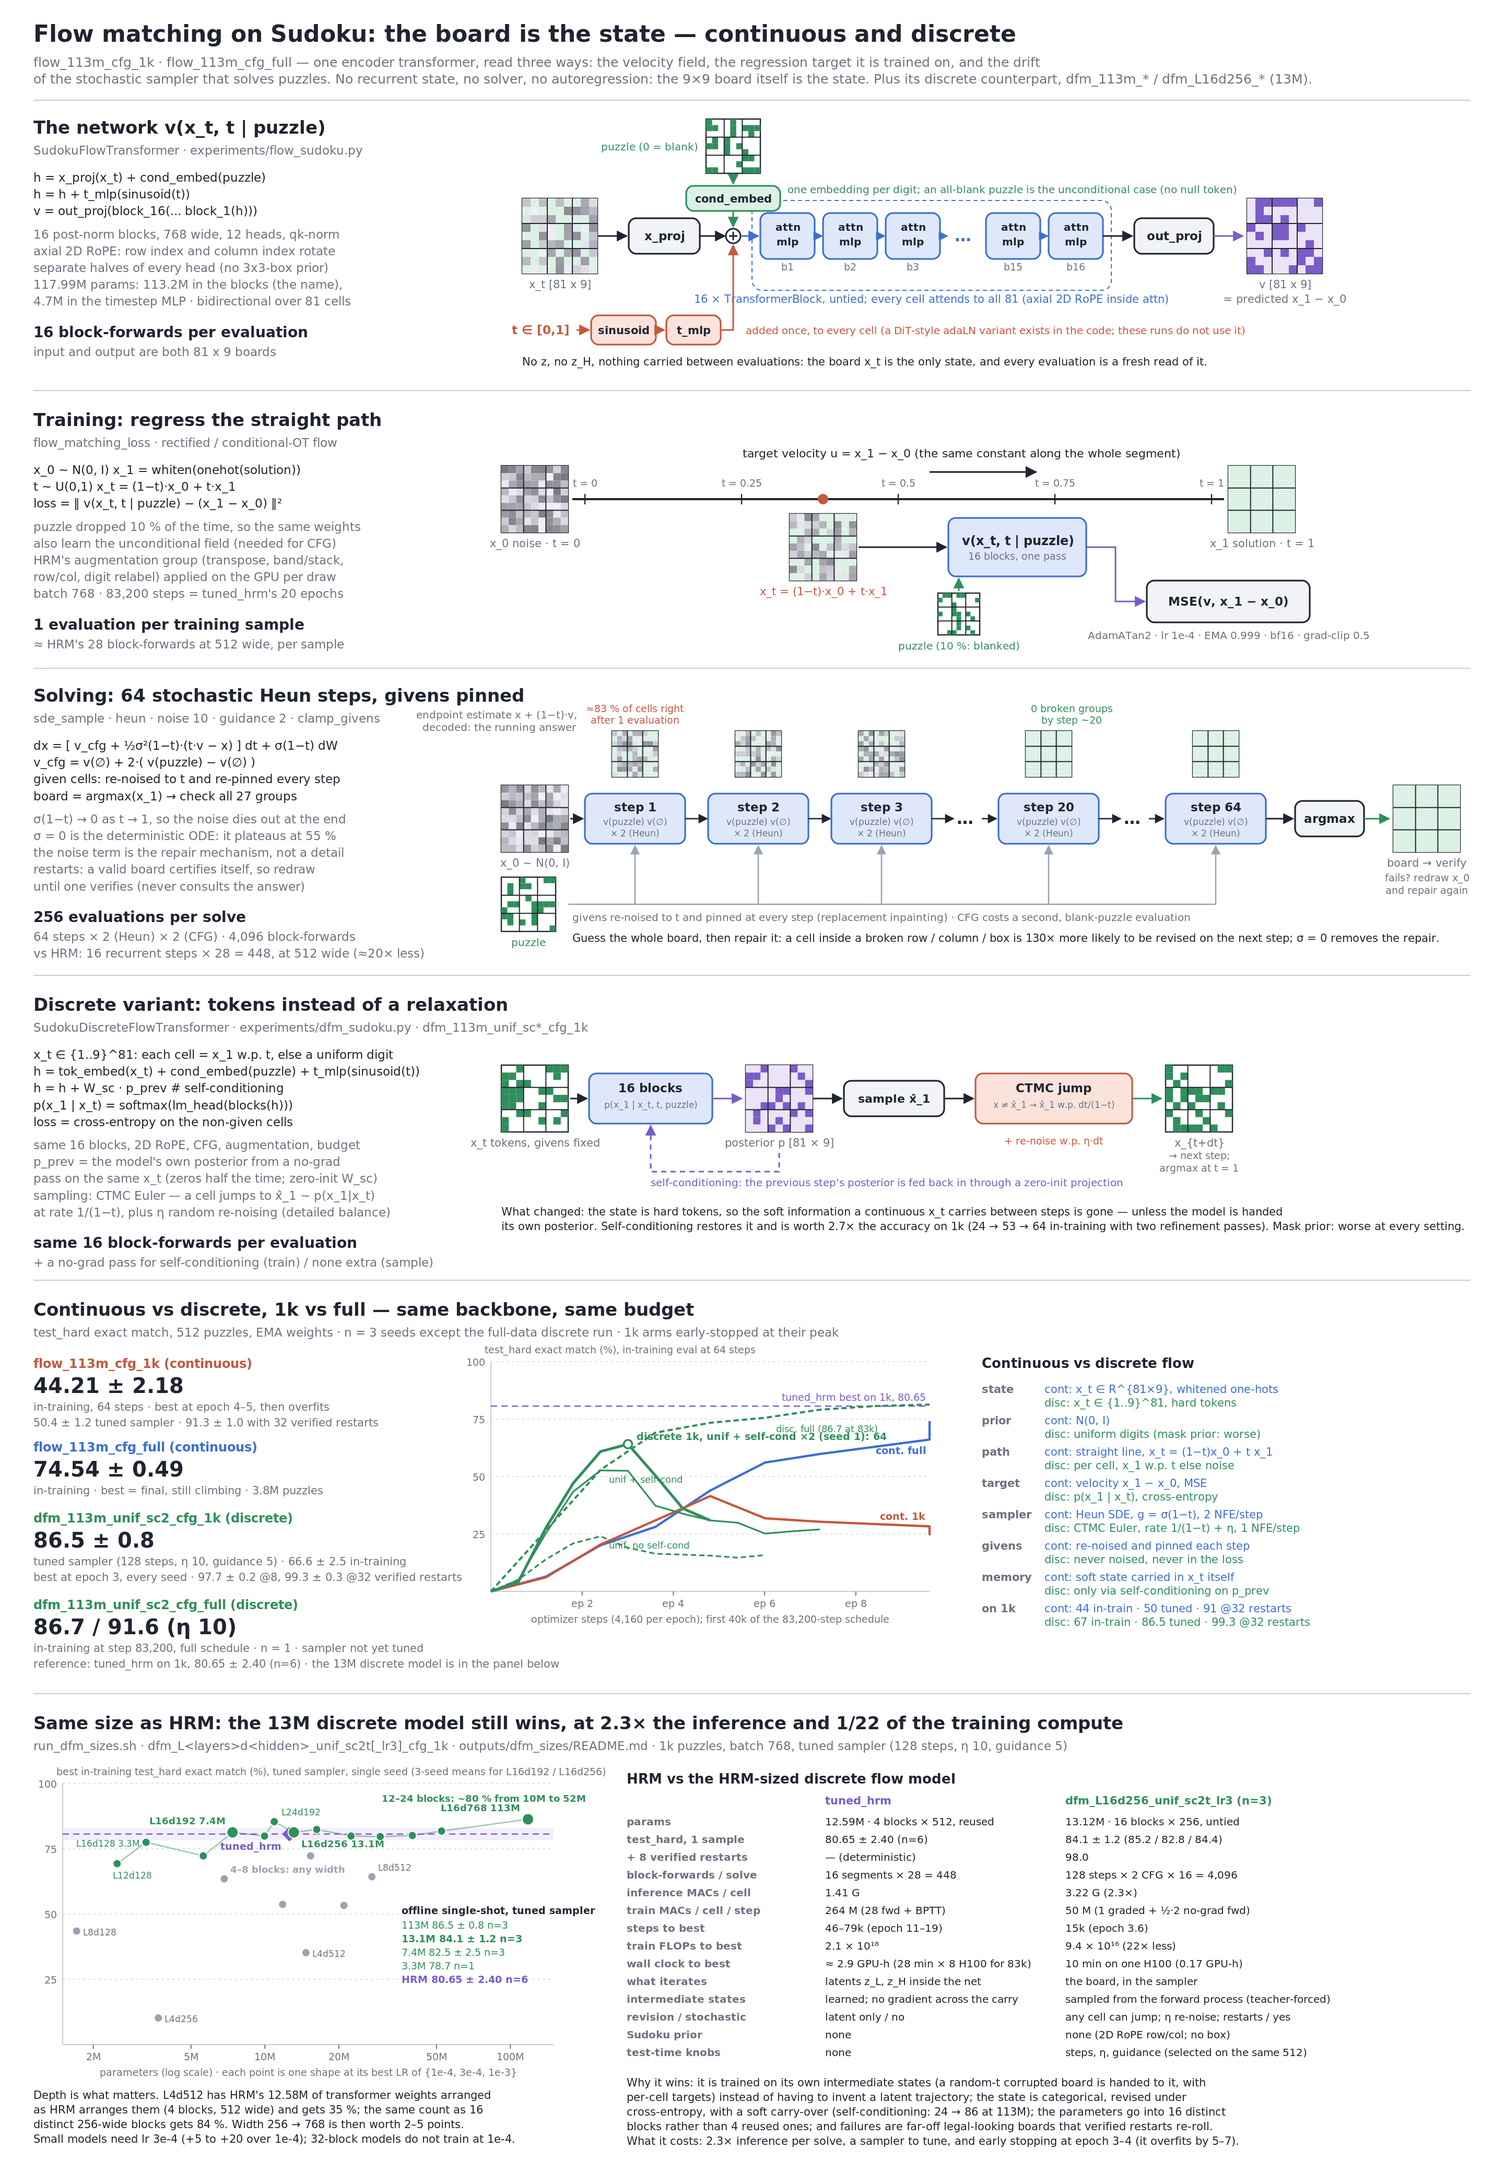
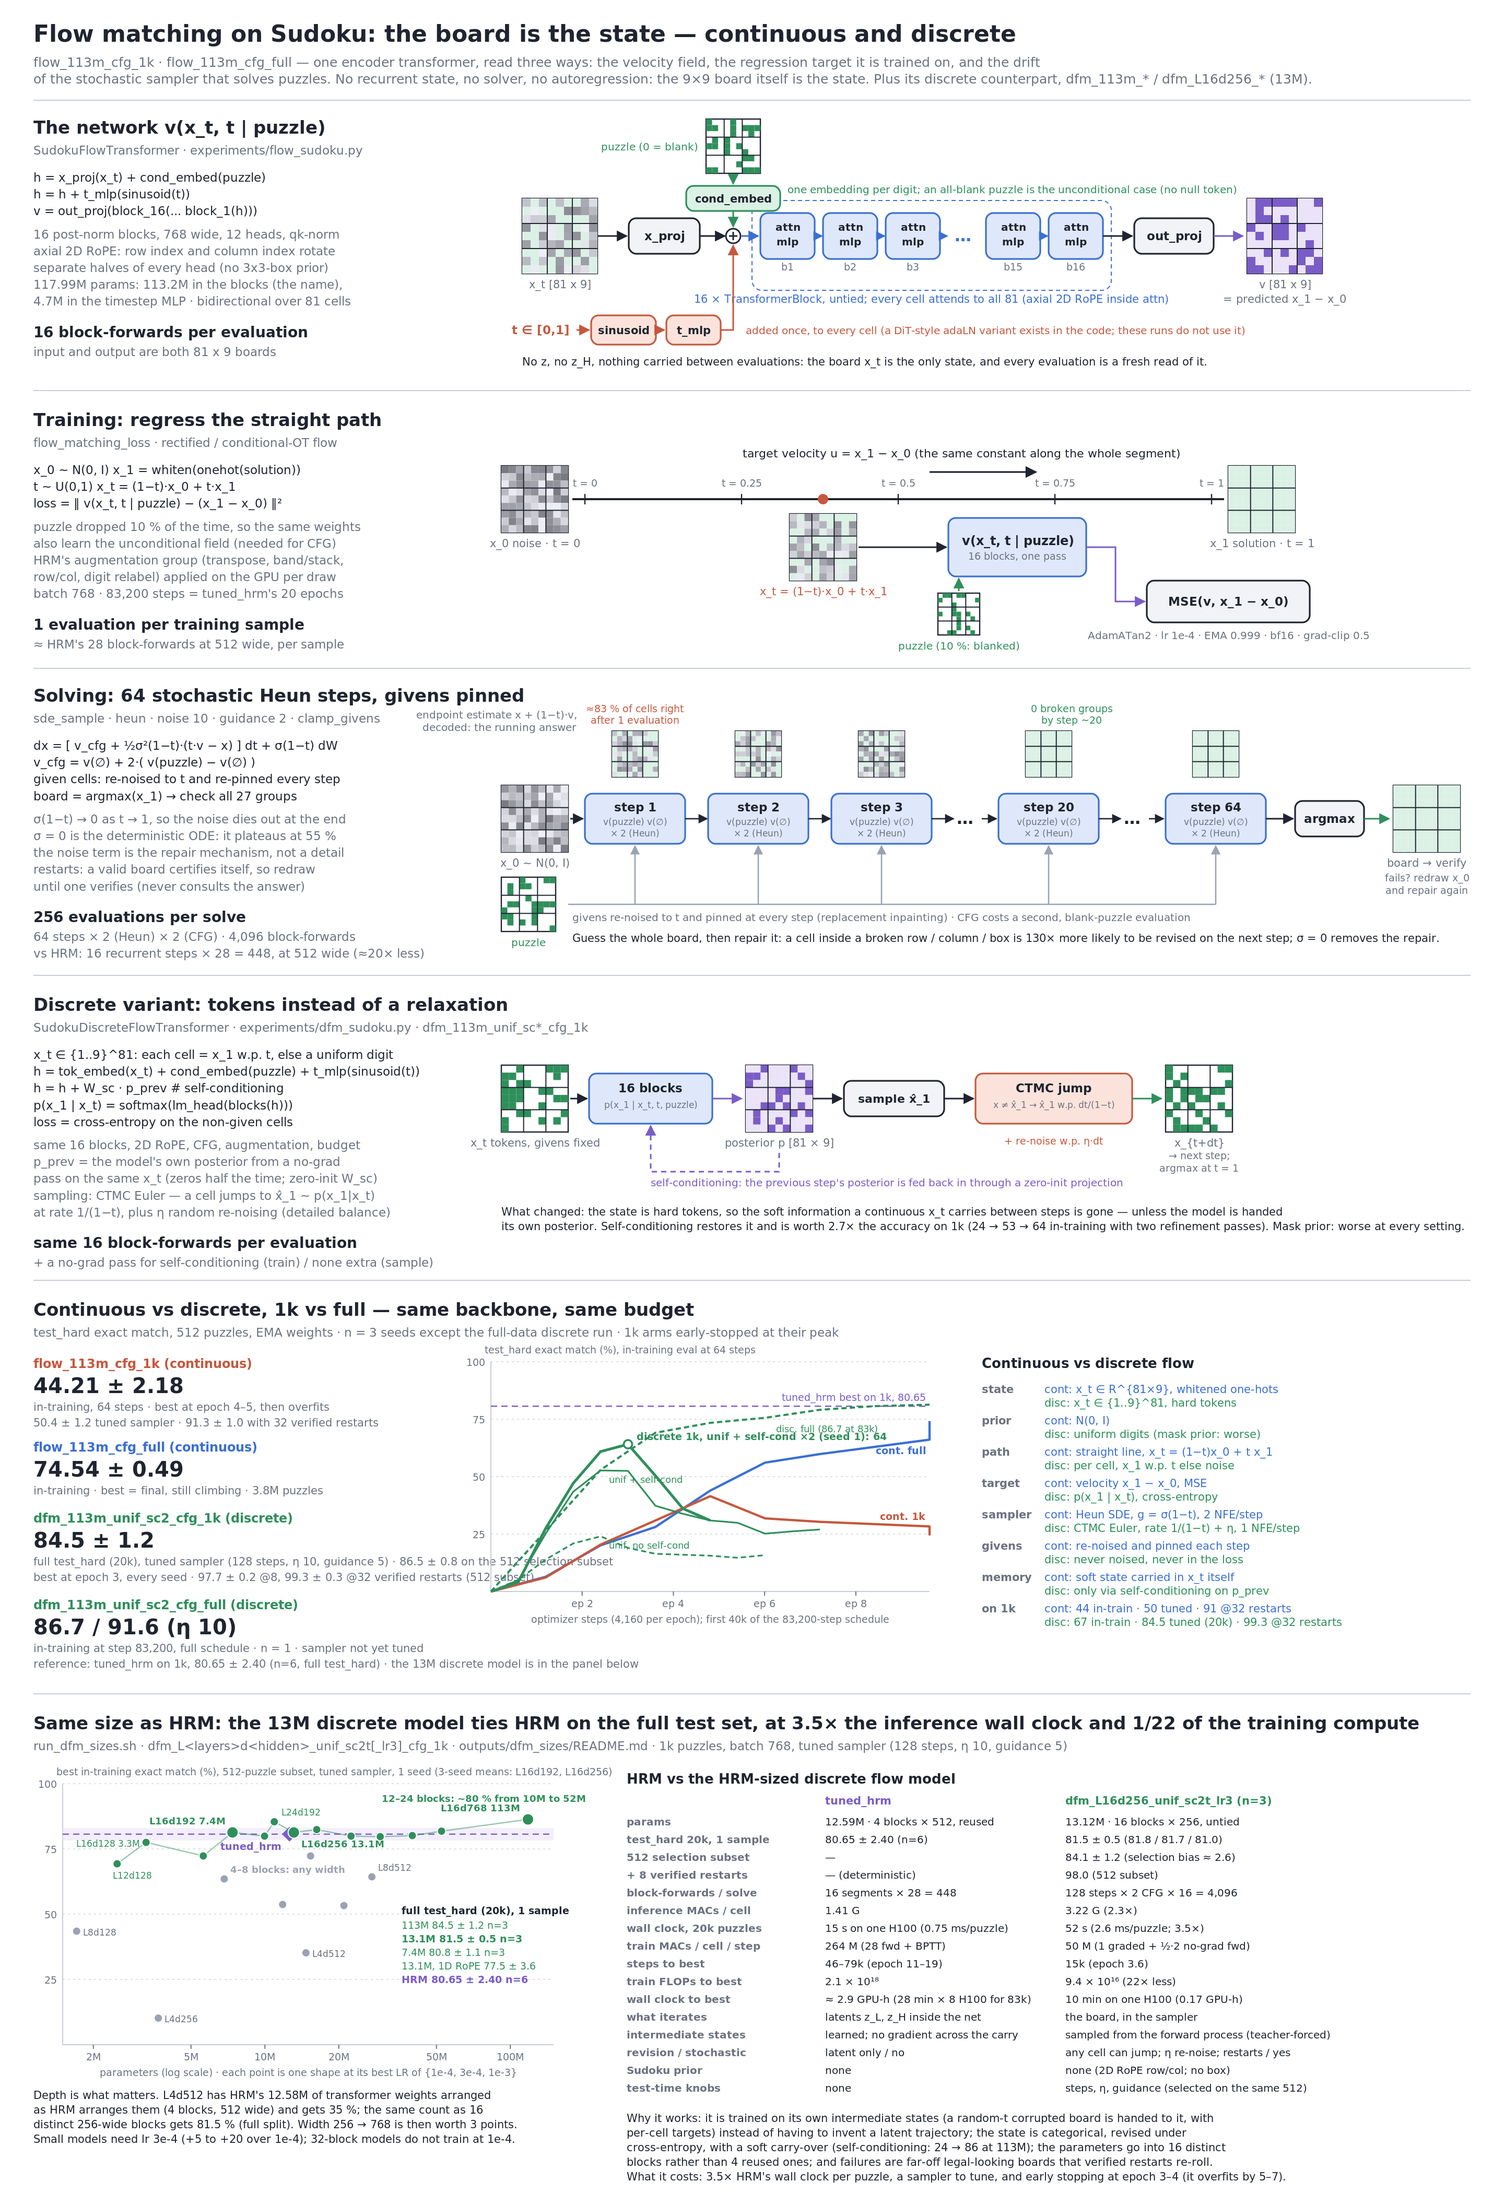
Score the discrete flow models on the full test_hard split and time inference against HRM
HRM's 80.65 +- 2.40 has always been on all 20,000 test_hard puzzles (train.py evaluates the whole
split); the DFM numbers were on the 512-puzzle subset that best.pt and the sampler cell were
selected on, which reads 2-2.6 points high. On the full split: 113M 84.5 +- 1.2, 13M 81.5 +- 0.5,
7.4M 80.8 +- 1.1, 13M with 1D RoPE 77.5 +- 3.6. So at HRM's size the DFM ties HRM rather than
beating it by 3.5; the 113M model beats it by 3.9. Every headline in FLOW_MATCHING_EXPLAINED.md,
outputs/dfm_sizes/README.md and the figure is moved to the full-split number.

Wall clock for the whole split on one H100 (compiled, steady state): HRM 15 s (0.75 ms/puzzle),
DFM 13M 52 s (2.6 ms, 3.5x; 175 s eager), DFM 113M 236 s (11.8 ms, 16x). eval.py gains
--batch-size and a timed loop; eval_dfm_sudoku.py gains --compile and per-cell timing.

diff --git a/experiments/make_flow_figure.py b/experiments/make_flow_figure.py
@@ -2,7 +2,7 @@
 import math
 import os
 
-W, H = 1440, 2080
+W, H = 1440, 2100
 SANS = "Inter, Helvetica Neue, Helvetica, Arial, sans-serif"
 MONO = "ui-monospace, SFMono-Regular, Menlo, Consolas, monospace"
 
@@ -378,14 +378,14 @@ text(bx_, yD + 154, "74.54 ± 0.49", 20, INK, weight="700")
 text(bx_, yD + 171, "in-training · best = final, still climbing · 3.8M puzzles", 10.5, MUTED)
 
 text(bx_, yD + 198, "dfm_113m_unif_sc2_cfg_1k  (discrete)", 12, GRN, weight="700", mono=True)
-text(bx_, yD + 222, "86.5 ± 0.8", 20, INK, weight="700")
-text(bx_, yD + 239, "tuned sampler (128 steps, η 10, guidance 5) · 66.6 ± 2.5 in-training", 10.5, MUTED)
-text(bx_, yD + 254, "best at epoch 3, every seed · 97.7 ± 0.2 @8, 99.3 ± 0.3 @32 verified restarts", 10.5, MUTED)
+text(bx_, yD + 222, "84.5 ± 1.2", 20, INK, weight="700")
+text(bx_, yD + 239, "full test_hard (20k), tuned sampler (128 steps, η 10, guidance 5) · 86.5 ± 0.8 on the 512 selection subset", 10.5, MUTED)
+text(bx_, yD + 254, "best at epoch 3, every seed · 97.7 ± 0.2 @8, 99.3 ± 0.3 @32 verified restarts (512 subset)", 10.5, MUTED)
 
 text(bx_, yD + 281, "dfm_113m_unif_sc2_cfg_full  (discrete)", 12, GRN, weight="700", mono=True)
 text(bx_, yD + 305, "86.7 / 91.6 (η 10)", 20, INK, weight="700")
 text(bx_, yD + 322, "in-training at step 83,200, full schedule · n = 1 · sampler not yet tuned", 10.5, MUTED)
-text(bx_, yD + 337, "reference: tuned_hrm on 1k, 80.65 ± 2.40 (n=6) · the 13M discrete model is in the panel below", 10.5, MUTED)
+text(bx_, yD + 337, "reference: tuned_hrm on 1k, 80.65 ± 2.40 (n=6, full test_hard) · the 13M discrete model is in the panel below", 10.5, MUTED)
 
 # mini chart of the curves
 chx, chy, chw, chh = 470, yD + 44, 420, 220
@@ -443,7 +443,7 @@ rows = [
     ("sampler",   "cont: Heun SDE, g = σ(1−t), 2 NFE/step",        "disc: CTMC Euler, rate 1/(1−t) + η, 1 NFE/step"),
     ("givens",    "cont: re-noised and pinned each step",          "disc: never noised, never in the loss"),
     ("memory",    "cont: soft state carried in x_t itself",        "disc: only via self-conditioning on p_prev"),
-    ("on 1k",     "cont: 44 in-train · 50 tuned · 91 @32 restarts", "disc: 67 in-train · 86.5 tuned · 99.3 @32 restarts"),
+    ("on 1k",     "cont: 44 in-train · 50 tuned · 91 @32 restarts", "disc: 67 in-train · 84.5 tuned (20k) · 99.3 @32 restarts"),
 ]
 ty = yD + 74
 for k, a, b in rows:
@@ -458,7 +458,7 @@ rule(yD + 362)
 # Panel F: size sweep and the HRM-sized comparison
 # =============================================================================================
 yF = yD + 396
-text(32, yF, "Same size as HRM: the 13M discrete model still wins, at 2.3× the inference and 1/22 of the training compute", 17, INK, weight="700")
+text(32, yF, "Same size as HRM: the 13M discrete model ties HRM on the full test set, at 3.5× the inference wall clock and 1/22 of the training compute", 17, INK, weight="700")
 text(32, yF + 20, "run_dfm_sizes.sh · dfm_L<layers>d<hidden>_unif_sc2t[_lr3]_cfg_1k · outputs/dfm_sizes/README.md · 1k puzzles, batch 768, tuned sampler (128 steps, η 10, guidance 5)", 11.5, MUTED, mono=True)
 
 # --- scatter: params vs best in-training exact match, coloured by depth --------------------------
@@ -486,7 +486,7 @@ for pm in (2, 5, 10, 20, 50, 100):
     add(f'<line x1="{PX(pm)}" y1="{sy0+sh_}" x2="{PX(pm)}" y2="{sy0+sh_+4}" stroke="{MUTED}" stroke-width="1"/>')
     text(PX(pm), sy0 + sh_ + 15, f"{pm}M", 9.5, MUTED, "middle")
 text(sx0 + sw_ / 2, sy0 + sh_ + 30, "parameters (log scale) · each point is one shape at its best LR of {1e-4, 3e-4, 1e-3}", 9.5, MUTED, "middle")
-text(sx0 - 6, sy0 - 8, "best in-training test_hard exact match (%), tuned sampler, single seed (3-seed means for L16d192 / L16d256)", 9.5, MUTED, "start")
+text(sx0 - 6, sy0 - 8, "best in-training exact match (%), 512-puzzle subset, tuned sampler, 1 seed (3-seed means: L16d192, L16d256)", 9.5, MUTED, "start")
 # HRM reference: a point at 12.59M / 80.65 with its ± band
 add(f'<rect x="{sx0}" y="{PY(83.05)}" width="{sw_}" height="{PY(78.25)-PY(83.05)}" fill="{PURP_F}" opacity="0.6"/>')
 add(f'<line x1="{sx0}" y1="{PY(80.65)}" x2="{sx0+sw_}" y2="{PY(80.65)}" stroke="{PURP}" stroke-width="1.2" stroke-dasharray="6,4"/>')
@@ -513,16 +513,16 @@ text(PX(13.12) + 7, PY(81.3) + 14, "L16d256 13.1M", 9, GRN, "start", "700")
 text(PX(30), PY(93), "12–24 blocks: ~80 % from 10M to 52M", 9, GRN, "start", "700")
 # offline 3-seed numbers, in the empty lower-right of the plot
 lx, ly_ = PX(36), PY(50)
-text(lx, ly_, "offline single-shot, tuned sampler", 9.5, INK, "start", "700")
-text(lx, ly_ + 14, "113M   86.5 ± 0.8  n=3", 9.5, GRN, "start", mono=True)
-text(lx, ly_ + 27, "13.1M  84.1 ± 1.2  n=3", 9.5, GRN, "start", "700", mono=True)
-text(lx, ly_ + 40, "7.4M   82.5 ± 2.5  n=3", 9.5, GRN, "start", mono=True)
-text(lx, ly_ + 53, "3.3M   78.7        n=1", 9.5, GRN, "start", mono=True)
+text(lx, ly_, "full test_hard (20k), 1 sample", 9.5, INK, "start", "700")
+text(lx, ly_ + 14, "113M   84.5 ± 1.2  n=3", 9.5, GRN, "start", mono=True)
+text(lx, ly_ + 27, "13.1M  81.5 ± 0.5  n=3", 9.5, GRN, "start", "700", mono=True)
+text(lx, ly_ + 40, "7.4M   80.8 ± 1.1  n=3", 9.5, GRN, "start", mono=True)
+text(lx, ly_ + 53, "13.1M, 1D RoPE 77.5 ± 3.6", 9.5, GRN, "start", mono=True)
 text(lx, ly_ + 66, "HRM    80.65 ± 2.40 n=6", 9.5, PURP, "start", "700", mono=True)
 cap = sy0 + sh_ + 52
 text(32, cap, "Depth is what matters. L4d512 has HRM's 12.58M of transformer weights arranged", 10.5, INK)
 text(32, cap + 14, "as HRM arranges them (4 blocks, 512 wide) and gets 35 %; the same count as 16", 10.5, INK)
-text(32, cap + 28, "distinct 256-wide blocks gets 84 %. Width 256 → 768 is then worth 2–5 points.", 10.5, INK)
+text(32, cap + 28, "distinct 256-wide blocks gets 81.5 % (full split). Width 256 → 768 is then worth 3 points.", 10.5, INK)
 text(32, cap + 42, "Small models need lr 3e-4 (+5 to +20 over 1e-4); 32-block models do not train at 1e-4.", 10.5, INK)
 
 # --- comparison table: HRM vs the 13M DFM -------------------------------------------------------
@@ -533,10 +533,12 @@ text(tx1 + 190, hdr_y, "tuned_hrm", 10.5, PURP, "start", "700", mono=True)
 text(tx1 + 420, hdr_y, "dfm_L16d256_unif_sc2t_lr3 (n=3)", 10.5, GRN, "start", "700", mono=True)
 rows = [
     ("params",                 "12.59M · 4 blocks × 512, reused",           "13.12M · 16 blocks × 256, untied"),
-    ("test_hard, 1 sample",    "80.65 ± 2.40  (n=6)",                       "84.1 ± 1.2  (85.2 / 82.8 / 84.4)"),
-    ("+ 8 verified restarts",  "— (deterministic)",                         "98.0"),
+    ("test_hard 20k, 1 sample","80.65 ± 2.40  (n=6)",                       "81.5 ± 0.5  (81.8 / 81.7 / 81.0)"),
+    ("512 selection subset",   "—",                                         "84.1 ± 1.2  (selection bias ≈ 2.6)"),
+    ("+ 8 verified restarts",  "— (deterministic)",                         "98.0  (512 subset)"),
     ("block-forwards / solve", "16 segments × 28 = 448",                    "128 steps × 2 CFG × 16 = 4,096"),
     ("inference MACs / cell",  "1.41 G",                                    "3.22 G  (2.3×)"),
+    ("wall clock, 20k puzzles","15 s on one H100  (0.75 ms/puzzle)",        "52 s  (2.6 ms/puzzle; 3.5×)"),
     ("train MACs / cell / step","264 M  (28 fwd + BPTT)",                   "50 M  (1 graded + ½·2 no-grad fwd)"),
     ("steps to best",          "46–79k  (epoch 11–19)",                     "15k  (epoch 3.6)"),
     ("train FLOPs to best",    "2.1 × 10¹⁸",                                "9.4 × 10¹⁶  (22× less)"),
@@ -553,11 +555,11 @@ for k, a, b in rows:
     text(tx1 + 190, ty, a, 10, INK)
     text(tx1 + 420, ty, b, 10, INK)
     ty += 17
-text(tx1, ty + 12, "Why it wins: it is trained on its own intermediate states (a random-t corrupted board is handed to it, with", 10.5, INK)
+text(tx1, ty + 12, "Why it works: it is trained on its own intermediate states (a random-t corrupted board is handed to it, with", 10.5, INK)
 text(tx1, ty + 26, "per-cell targets) instead of having to invent a latent trajectory; the state is categorical, revised under", 10.5, INK)
 text(tx1, ty + 40, "cross-entropy, with a soft carry-over (self-conditioning: 24 → 86 at 113M); the parameters go into 16 distinct", 10.5, INK)
 text(tx1, ty + 54, "blocks rather than 4 reused ones; and failures are far-off legal-looking boards that verified restarts re-roll.", 10.5, INK)
-text(tx1, ty + 68, "What it costs: 2.3× inference per solve, a sampler to tune, and early stopping at epoch 3–4 (it overfits by 5–7).", 10.5, INK)
+text(tx1, ty + 68, "What it costs: 3.5× HRM's wall clock per puzzle, a sampler to tune, and early stopping at epoch 3–4 (it overfits by 5–7).", 10.5, INK)
 
 add('</svg>')
 open(os.path.join(os.path.dirname(os.path.dirname(os.path.abspath(__file__))), "flow_matching_architecture.svg"), "w").write("\n".join(out))

diff --git a/experiments/eval_dfm_sudoku.py b/experiments/eval_dfm_sudoku.py
@@ -11,6 +11,7 @@ import itertools
 import json
 import os
 import sys
+import time
 
 import numpy as np
 import torch
@@ -41,6 +42,7 @@ def main():
                    help="Write the puzzle back into the state at every step (default: the run's --givens mode)")
     p.add_argument("--batch", type=int, default=512)
     p.add_argument("--seed", type=int, default=7)
+    p.add_argument("--compile", action="store_true", help="torch.compile the model (as train.py / eval.py do)")
     args = p.parse_args()
 
     device = torch.device("cuda")
@@ -54,6 +56,8 @@ def main():
         self_cond=cfg.get("self_cond", False))).to(device)
     model.load_state_dict(torch.load(args.ckpt, map_location=device))
     model.eval()
+    if args.compile:
+        model = torch.compile(model, dynamic=False, fullgraph=True)
     prior = cfg["prior"]
 
     q, a = load_pairs(args.dataset_dir, args.split)
@@ -76,14 +80,19 @@ def main():
                                     self_cond=cfg.get("self_cond", False)))
         return torch.cat(outs)
 
+    if args.compile:   # warm up so the wall clock below is steady-state
+        solve(args.sample_steps[0], args.noise_scale[0], args.guidance[0], args.temperature[0], args.seed)
     best = (-1.0, None)
     for steps, eta, guidance, temp in itertools.product(args.sample_steps, args.noise_scale, args.guidance, args.temperature):
+        torch.cuda.synchronize(); t0 = time.perf_counter()
         pred = solve(steps, eta, guidance, temp, args.seed)
+        torch.cuda.synchronize(); elapsed = time.perf_counter() - t0
         em = (pred == truth).all(dim=-1).float().mean().item()
         cell = (pred == truth).float().mean().item()
         valid = board_metrics(pred.cpu().numpy())["valid_board_rate"]
         print(f"steps={steps:4d}  eta={eta:5g}  guidance={guidance:4g}  temp={temp:4g}  "
-              f"exact_match={em:.4f}  cell_accuracy={cell:.4f}  valid_board={valid:.4f}", flush=True)
+              f"exact_match={em:.4f}  cell_accuracy={cell:.4f}  valid_board={valid:.4f}  "
+              f"wall={elapsed:.1f}s ({1000 * elapsed / cond.shape[0]:.2f} ms/puzzle)", flush=True)
         if em > best[0]:
             best = (em, (steps, eta, guidance, temp))
 

diff --git a/eval.py b/eval.py
@@ -1,4 +1,5 @@
 import argparse
+import time
 import yaml
 import os
 
@@ -15,6 +16,7 @@ def evaluate():
     parser = argparse.ArgumentParser(description="Evaluate a trained model.")
     parser.add_argument("--ckpt", type=str, required=True, help="Path to the saved checkpoint (.pt file)")
     parser.add_argument("--split", type=str, default="test", help="Dataset split to evaluate on")
+    parser.add_argument("--batch-size", type=int, default=None, help="Eval batch size (default: the training local batch)")
     args = parser.parse_args()
 
     # Load config
@@ -27,7 +29,7 @@ def evaluate():
     
     # Load evaluation dataset
     eval_loader, metadata = create_dataloader(
-        args.split, config.local_batch_size, rank=0, world_size=1, **config.data.__pydantic_extra__  # pyright: ignore[reportCallIssue]
+        args.split, args.batch_size or config.local_batch_size, rank=0, world_size=1, **config.data.__pydantic_extra__  # pyright: ignore[reportCallIssue]
     )
 
     # Initialize Model
@@ -50,6 +52,16 @@ def evaluate():
     samples = []
 
     print(f"Starting evaluation on '{args.split}' split...")
+    # Warm up (torch.compile, CUDA context) on the first batch so the wall clock is steady-state.
+    x0, _ = next(iter(eval_loader))
+    with torch.no_grad():
+        if is_autoregressive:
+            generate(model, x0.cuda())
+        else:
+            carry = model.initial_carry
+            for _ in range(config.cycles_per_data):
+                carry, _ = run_inference(model, carry, x0.cuda())
+    torch.cuda.synchronize(); t0 = time.perf_counter()
     for x, y in tqdm.tqdm(eval_loader):
         samples.append(x.numpy())
 
@@ -72,8 +84,10 @@ def evaluate():
              correctness=np.concat(correctness, axis=0),
              samples=np.concat(samples, axis=0))
 
+    torch.cuda.synchronize(); elapsed = time.perf_counter() - t0
     print(f"\n--- Results ---")
     print(f"Total Samples: {total_samples}")
+    print(f"Wall clock: {elapsed:.1f} s ({1000 * elapsed / total_samples:.2f} ms/puzzle, after a warm-up batch)")
     print(f"Exact Match Accuracy: {total_correct / total_samples:.4f}")
 
 if __name__ == "__main__":
